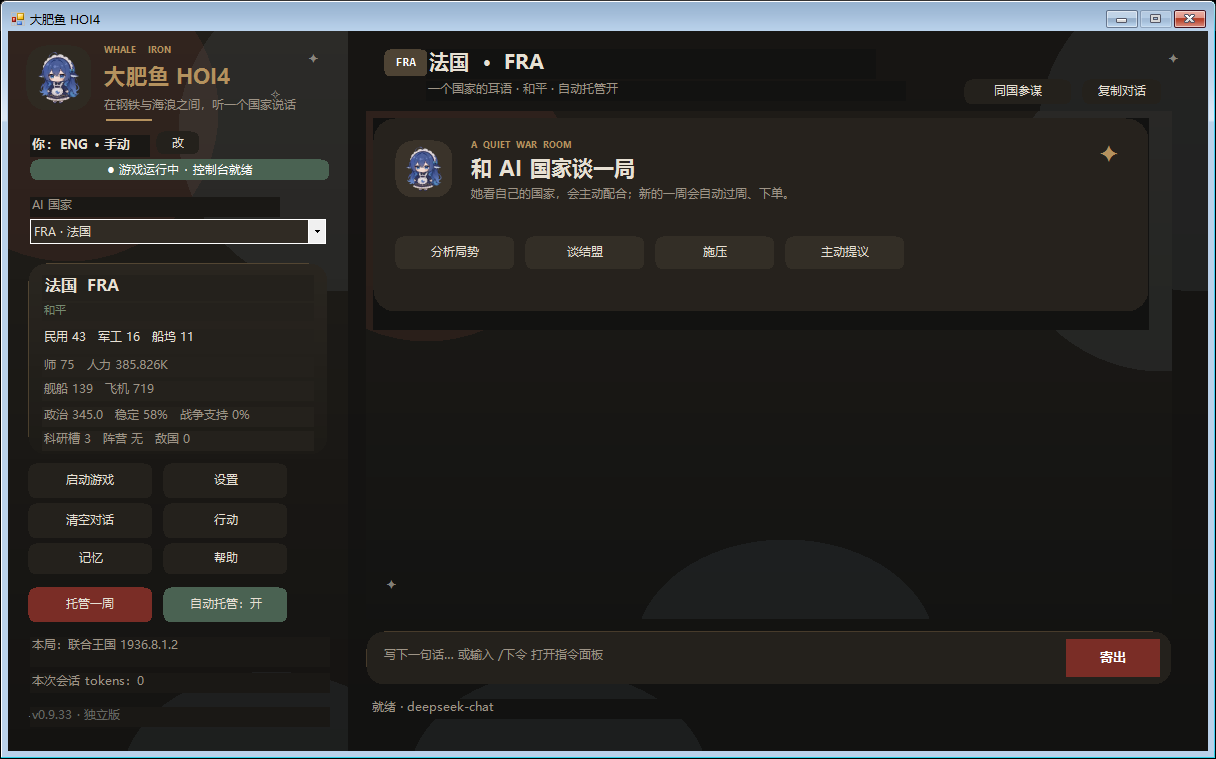
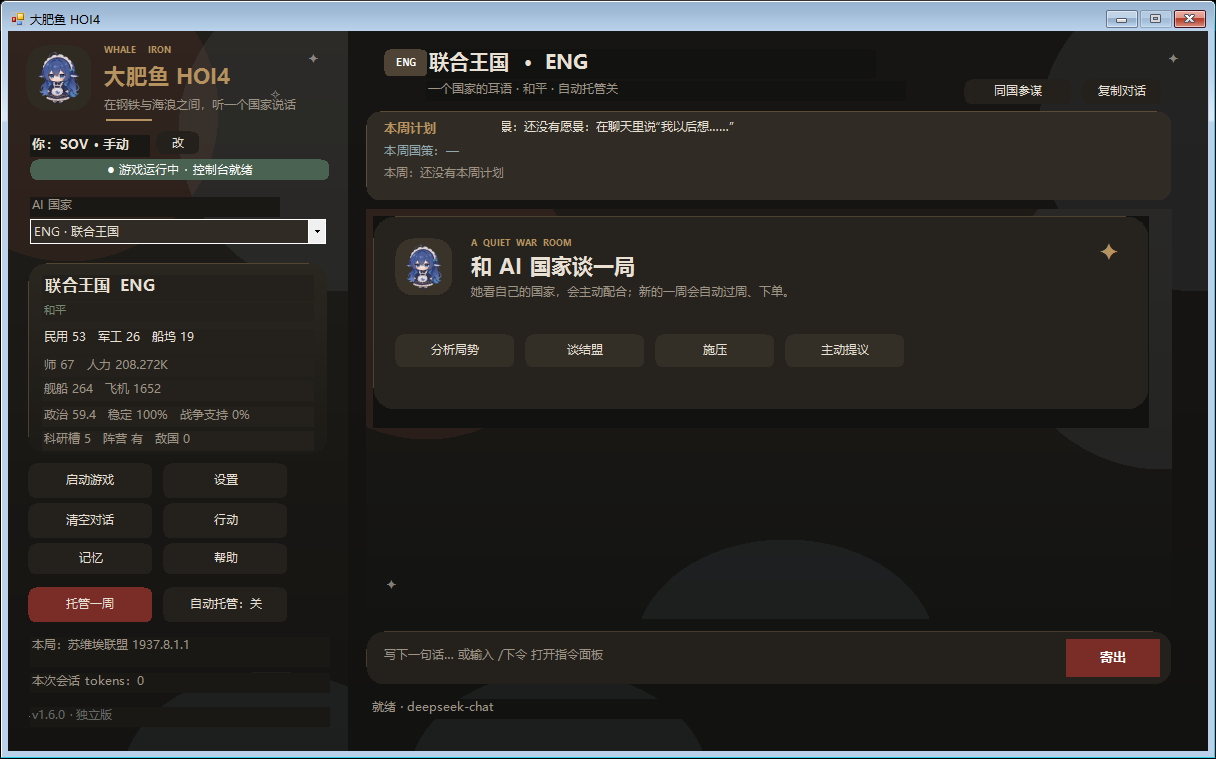
v1.6.1: fix welcome card clipping

diff --git a/CHANGELOG.md b/CHANGELOG.md
@@ -1,5 +1,12 @@
 # Changelog
 
+## v1.6.1 — 2026-11-10
+
+- 修复欢迎卡遮挡：
+  - `Set-Rounded` 在卡片子控件创建前设置 Region，导致标题/说明/按钮被裁掉；
+  - 改为卡片挂到 row 后再设圆角，内容恢复且保留圆角。
+- 界面复测：计划卡、欢迎卡、四个快捷按钮全部可见，无重叠。
+
 ## v1.6.0 — 2026-11-10
 
 - 连续托管节拍：

diff --git a/README.md b/README.md
@@ -6,7 +6,7 @@
 
 独立项目，不依赖 NationMind。
 
-**v1.6.0** · Windows 10/11 · PowerShell 5.1 + WinForms + 配套 mod
+**v1.6.1** · Windows 10/11 · PowerShell 5.1 + WinForms + 配套 mod
 
 ![主界面](docs/screenshot.png)
 

diff --git a/使用说明.md b/使用说明.md
@@ -1,4 +1,4 @@
-# 大肥鱼 HOI4 · 使用说明（v1.6.0）
+# 大肥鱼 HOI4 · 使用说明（v1.6.1）
 
 ## 一、安装
 

diff --git a/RELEASE_NOTES.md b/RELEASE_NOTES.md
@@ -1,4 +1,4 @@
-# 大肥鱼 HOI4 v1.6.0
+# 大肥鱼 HOI4 v1.6.1
 
 独立项目，不依赖 NationMind。
 
